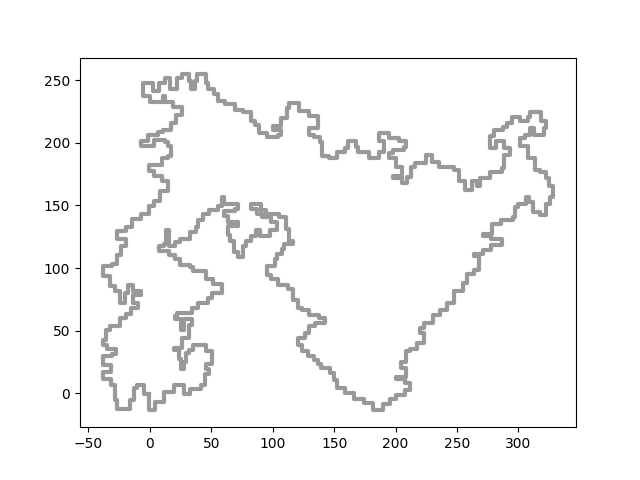
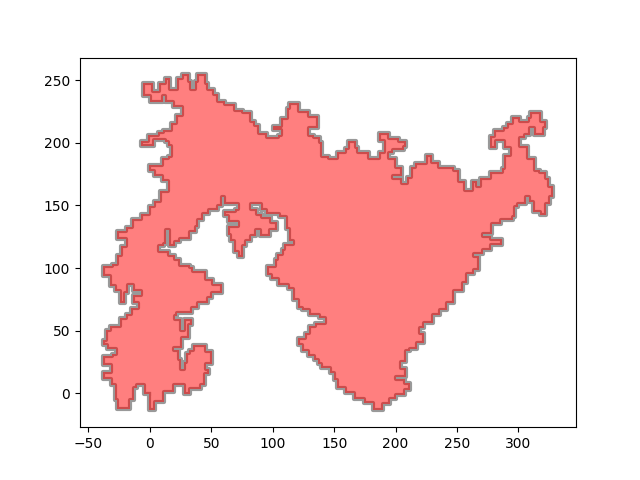
make it more lava-y

Changed region(s): [[0.1562, 0.1562, 0.875, 0.875]]

diff --git a/2023/calendar/18/18_12_2023.py b/2023/calendar/18/18_12_2023.py
@@ -157,6 +157,15 @@ class Ditch:
             0.5, cap_style=BufferCapStyle.square, join_style=BufferJoinStyle.mitre
         ).exterior.xy
         ax.plot(x, y, color="#999999", linewidth=3, zorder=1)
+        # Fill with lava red
+        ax.fill(
+            x,
+            y,
+            color="#FF0000",
+            alpha=0.5,
+            linewidth=0,
+            zorder=2,
+        )
         plt.savefig(filename)
 
 
